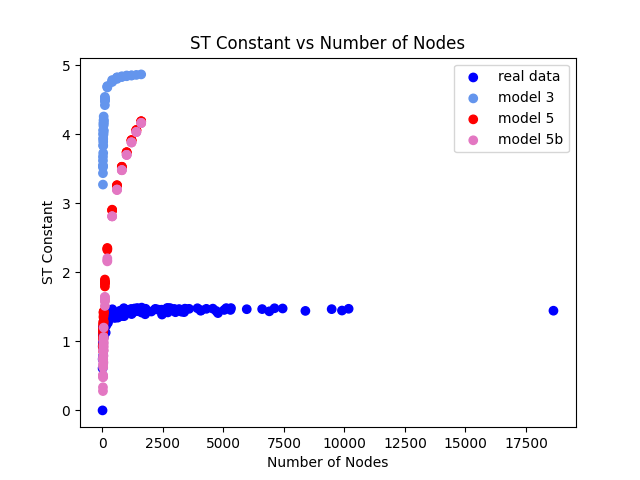
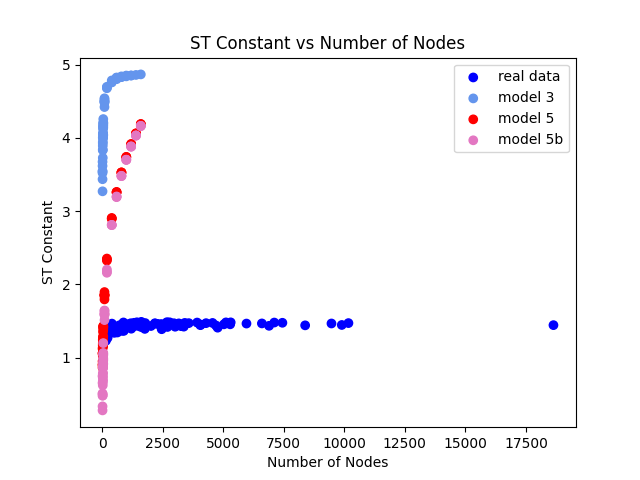
update sp tree count to only be t and bg, removing cnty

diff --git a/spanning_trees.py b/spanning_trees.py
@@ -60,7 +60,7 @@ else:
     num_nodes_real = []
     tree_const_real = []
     log_trees_real = []
-    q = ['cnty', 't', 'bg']
+    q = ['t', 'bg']
     for p in q:
         directory = "local copy of data/" + p
 
